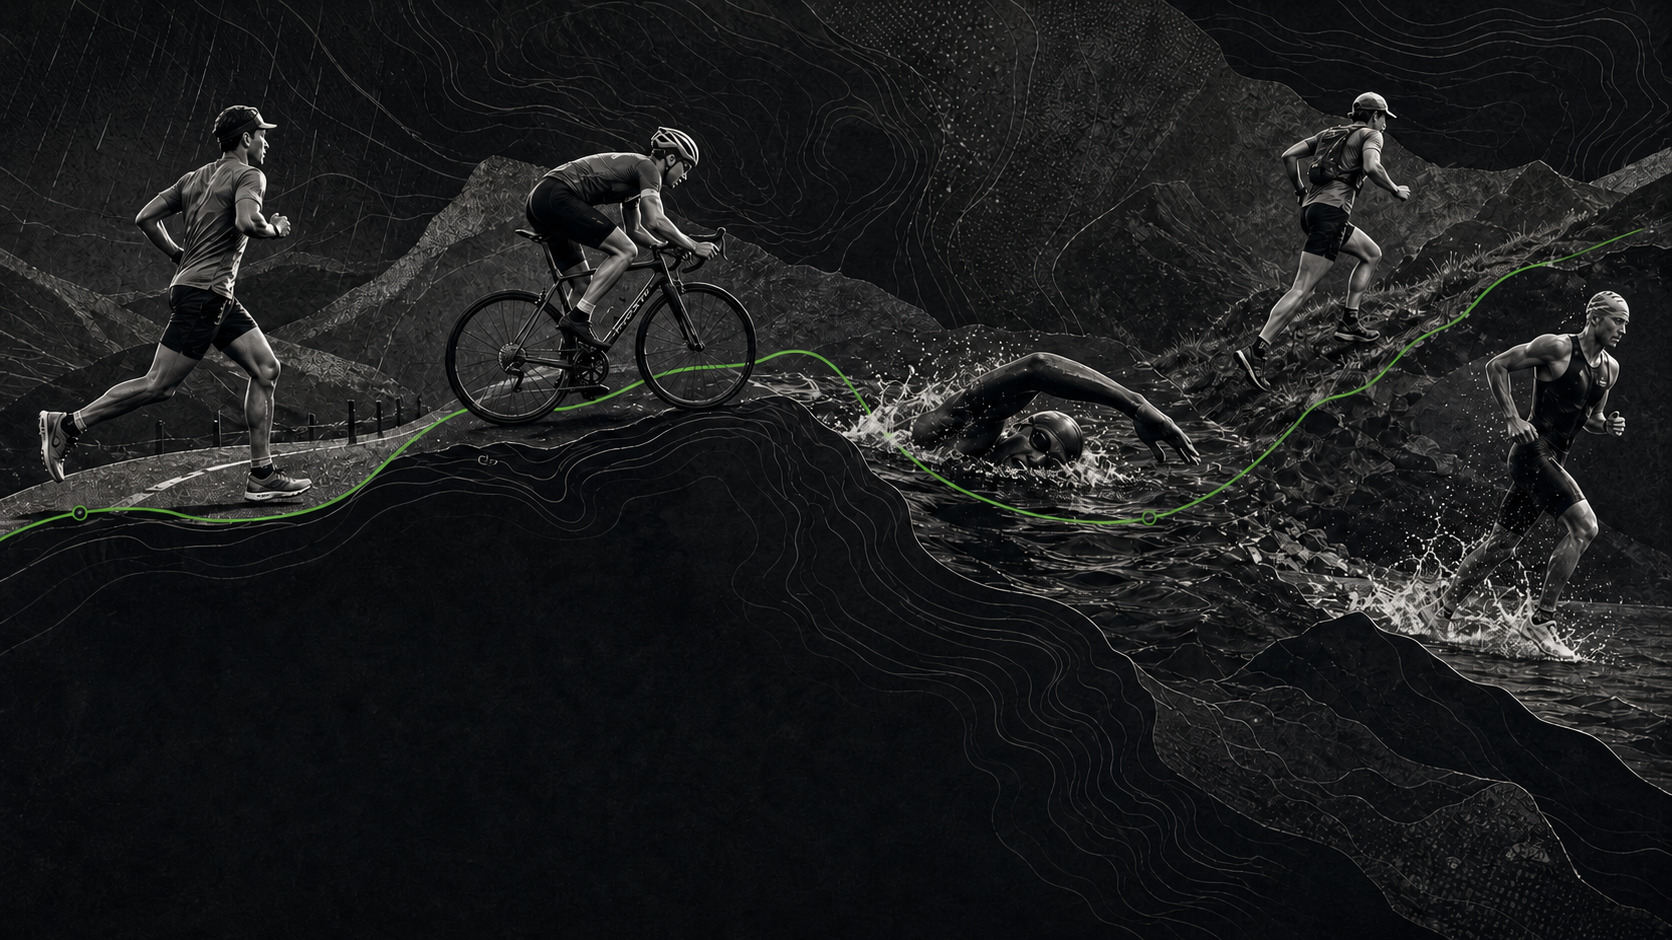
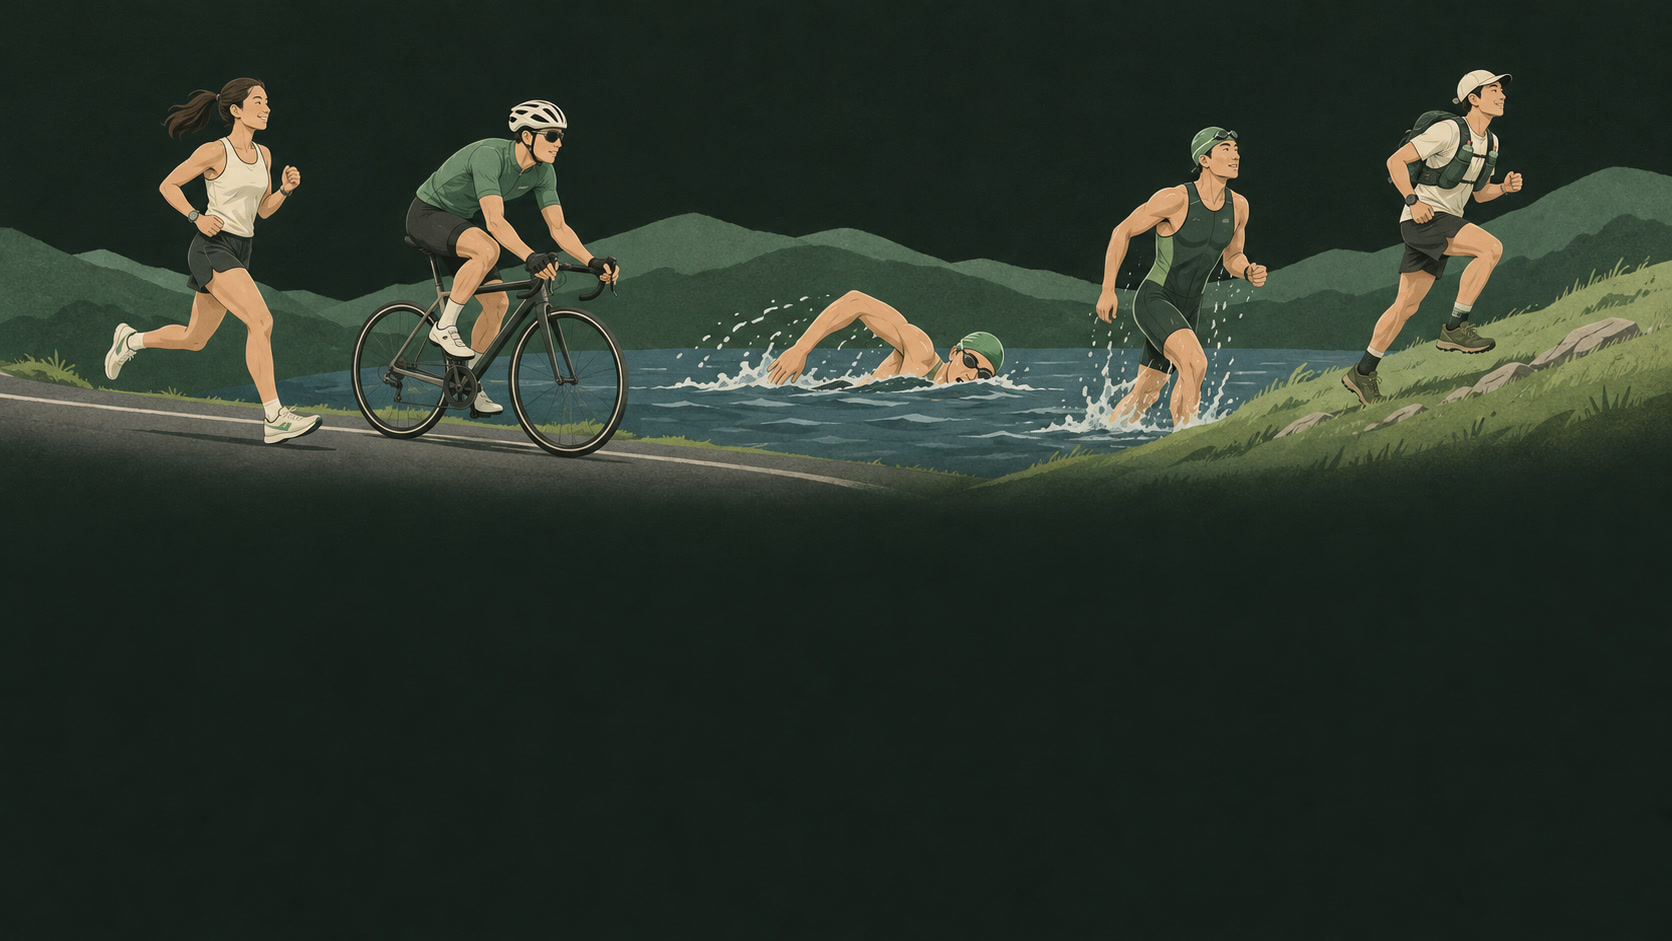
Update responsive home hero illustrations

diff --git a/web/src/routes/+page.svelte b/web/src/routes/+page.svelte
@@ -47,15 +47,17 @@
     {@html `<script type="application/ld+json">${JSON.stringify(websiteSchema)}</script>`}
 </svelte:head>
 
-<!-- ── Hero (DS: desaturated-cool photo + ink protection gradient, r-0, no shadow) ── -->
+<!-- ── Hero: responsive sports illustrations with space for the headline ── -->
 <section class="home-hero">
     <picture>
-        <source type="image/webp" media="(max-width: 768px)" srcset="/images/home-hero-mobile.webp" />
+        <source type="image/webp" media="(max-width: 768px)" srcset="/images/home-hero-mobile.webp" width="1672" height="941" />
         <source type="image/webp" srcset="/images/home-hero.webp" />
-        <source media="(max-width: 768px)" srcset="/images/home-hero-mobile.jpg" />
+        <source media="(max-width: 768px)" srcset="/images/home-hero-mobile.jpg" width="1672" height="941" />
         <img
             class="home-hero__img"
             src="/images/home-hero.jpg"
+            width="2172"
+            height="724"
             alt="마라톤, 사이클, 수영, 트레일 러닝, 철인3종 — 다섯 종목의 선수들"
             loading="eager"
             fetchpriority="high"
@@ -97,18 +99,13 @@
         border-bottom: var(--border-rule);
     }
     .home-hero__img {
-        position: absolute;
-        inset: 0;
         width: 100%;
-        height: 100%;
-        object-fit: cover;
-        object-position: center 20%;
+        height: auto;
         display: block;
-        filter: saturate(0.35);
     }
     .home-hero__ink {
-        position: relative;
-        min-height: clamp(190px, 22vw, 300px);
+        position: absolute;
+        inset: 0;
         display: flex;
         align-items: flex-end;
         background: linear-gradient(transparent 30%, rgba(16, 19, 18, 0.78));
@@ -133,11 +130,11 @@
         text-wrap: pretty;
     }
     @media (max-width: 768px) {
-        .home-hero__ink {
-            min-height: 170px;
-        }
         .home-hero__copy {
-            padding-bottom: 22px;
+            padding-bottom: clamp(14px, 4vw, 22px);
+        }
+        .home-hero__title {
+            font-size: clamp(24px, 7.2vw, 28px);
         }
     }
 </style>
